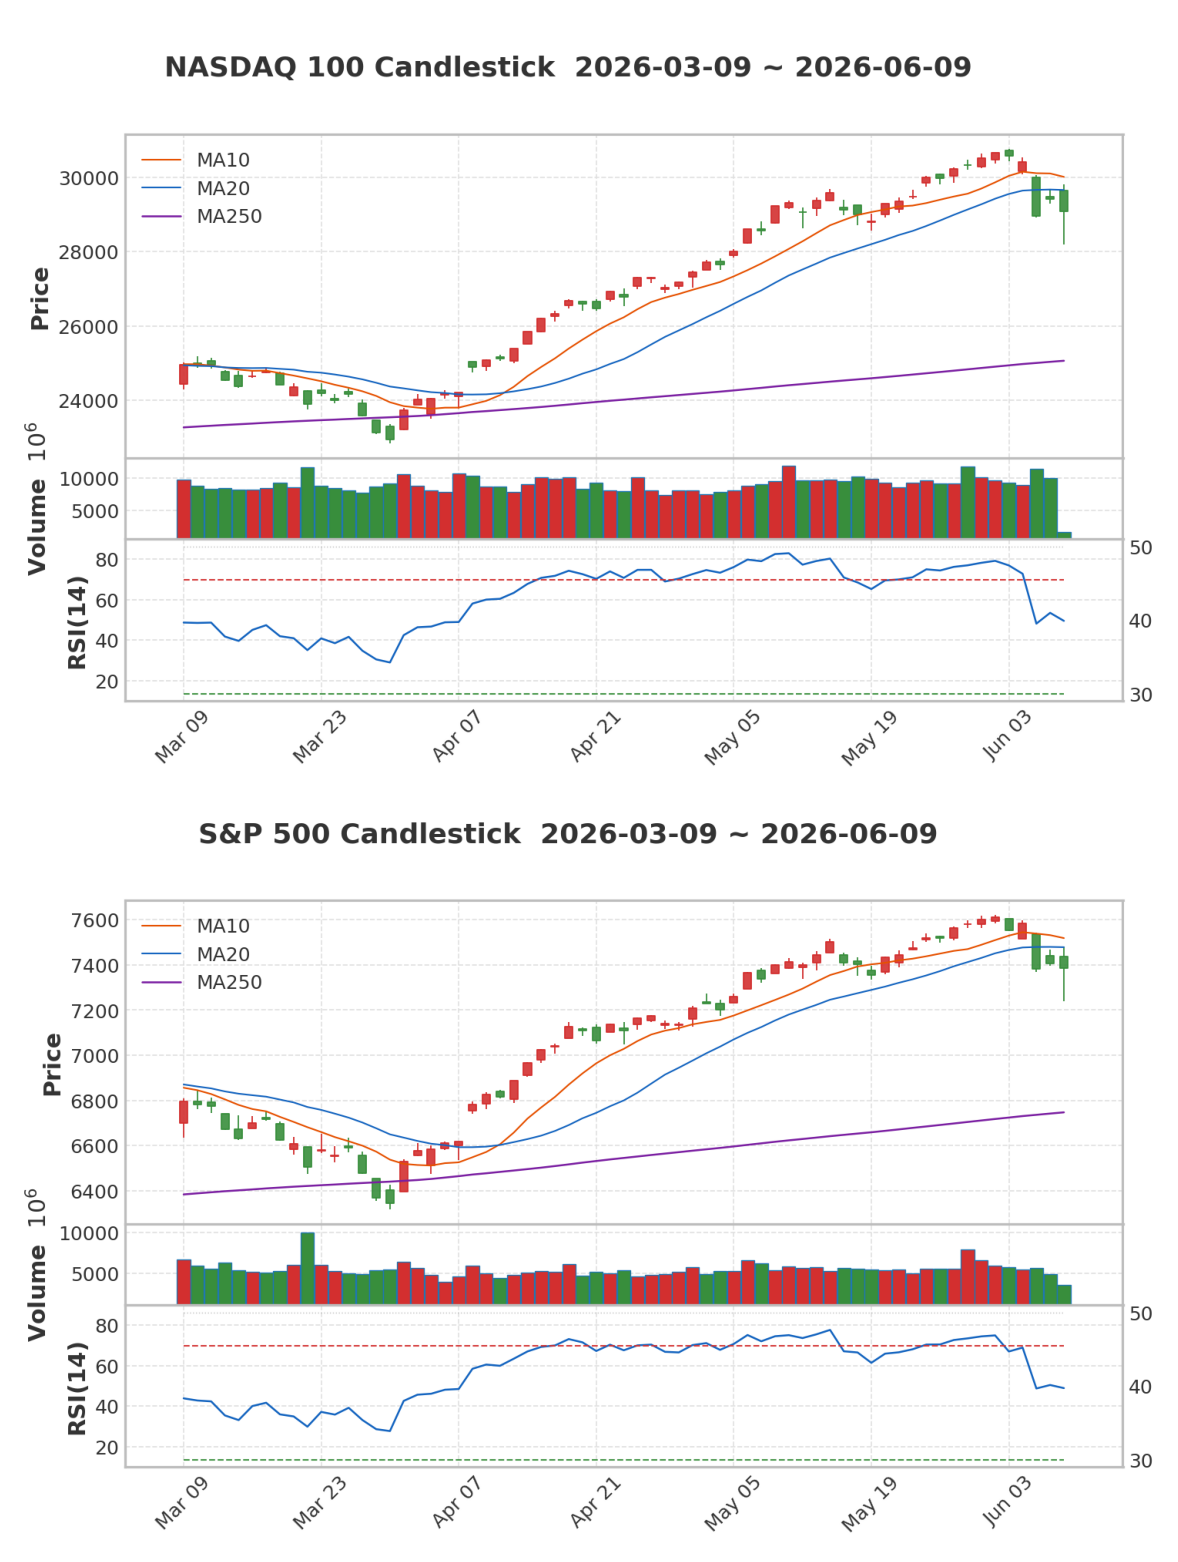
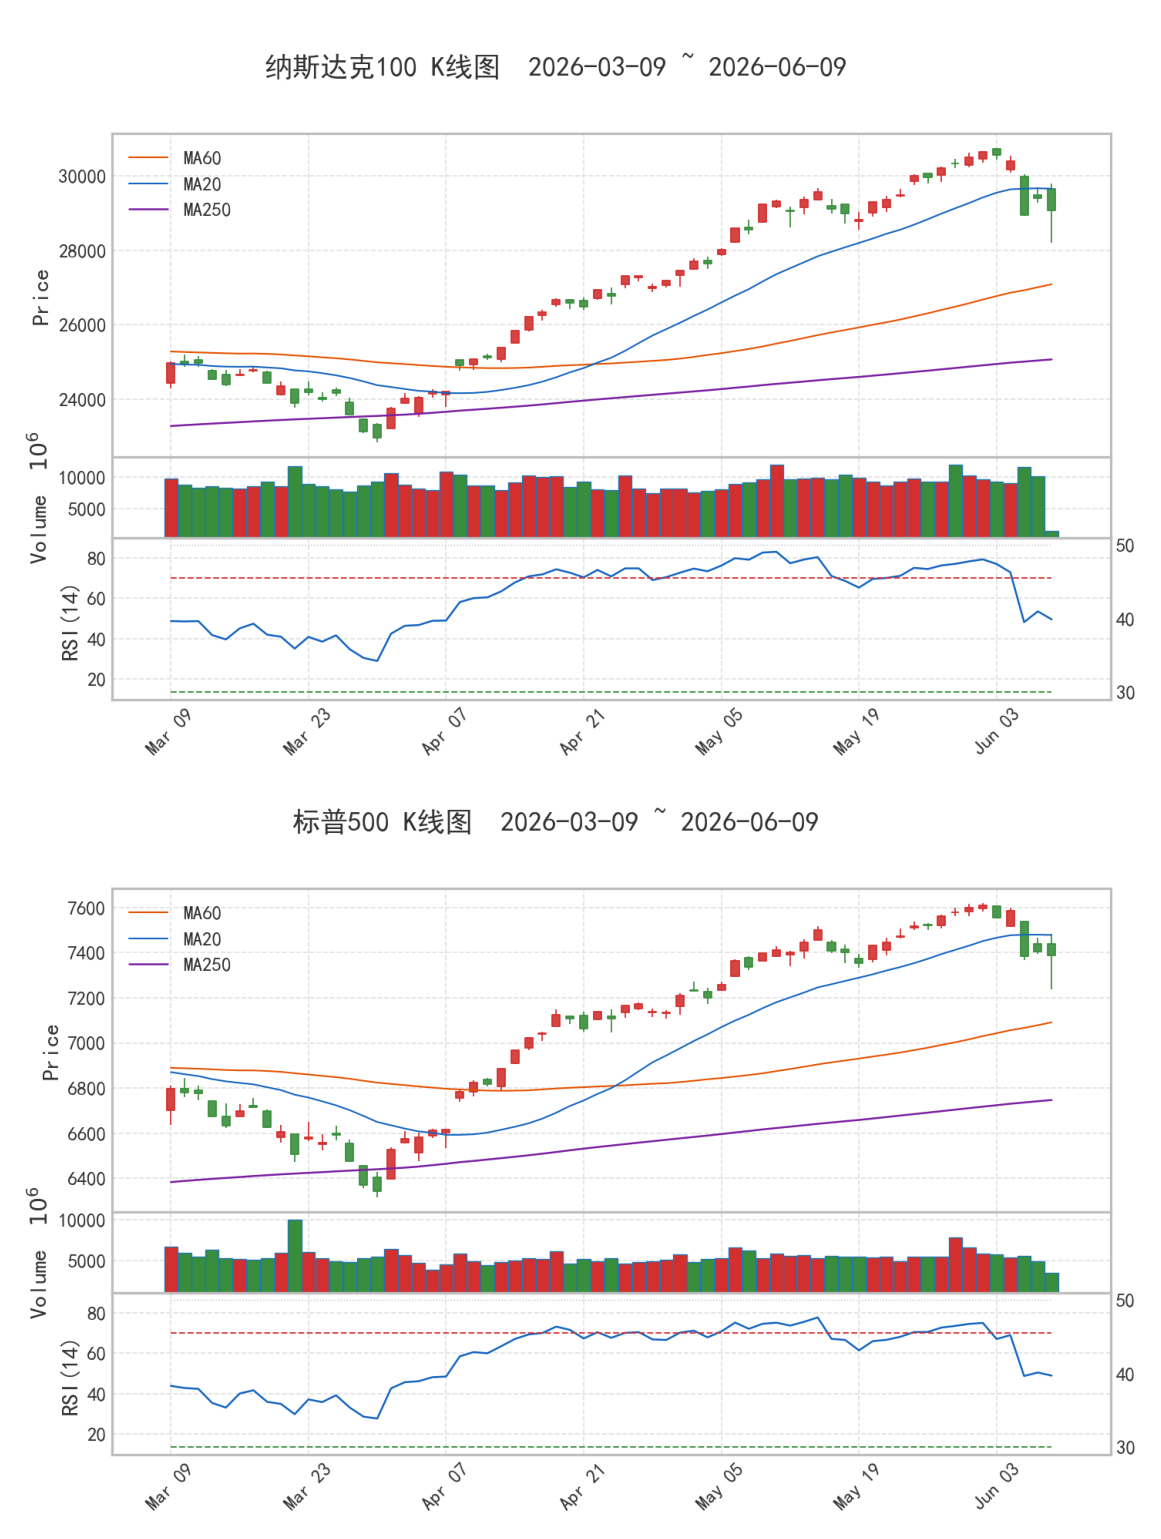
fix: 图表均线调整为MA20/60/250(v2.5.1)。将K线图中的MA10替换为MA60，配合MA20与MA250形成20/60/250三均线体系，更贴合中长线趋势观察。- backend/chart_generator.py: 均线计算、绘图标签、文档注释同步更新 - charts/kline_chart.png: 重新生成K线图

diff --git a/backend/chart_generator.py b/backend/chart_generator.py
@@ -1,7 +1,7 @@
 """
 chart_generator.py - K线图生成器
 从本地 data/ohlc_data.json 读取OHLC数据，生成纳指100和标普500近3个月的K线图，
-包含MA10/MA20/250均线和RSI(14)指标，合并为一张高清图片输出到 charts/kline_chart.png。
+包含MA20/60/250均线和RSI(14)指标，合并为一张高清图片输出到 charts/kline_chart.png。
 """
 
 import json
@@ -75,7 +75,7 @@ def calculate_rsi(series, period=14):
 def generate_single_chart(df, name_cn, months=3):
     """生成单个指数的K线图+MA+RSI，返回(figure, axes)"""
     # 计算均线
-    df['MA10'] = df['close'].rolling(window=10).mean()
+    df['MA60'] = df['close'].rolling(window=60).mean()
     df['MA20'] = df['close'].rolling(window=20).mean()
     df['MA250'] = df['close'].rolling(window=250).mean()
 
@@ -96,7 +96,7 @@ def generate_single_chart(df, name_cn, months=3):
 
     # 构建附加均线（浅色背景配色）
     apds = [
-        mpf.make_addplot(df_display['MA10'], color='#E65100', width=1.0, label='MA10'),   # 深橙色
+        mpf.make_addplot(df_display['MA60'], color='#E65100', width=1.0, label='MA60'),   # 深橙色
         mpf.make_addplot(df_display['MA20'], color='#1565C0', width=1.0, label='MA20'),   # 深蓝色
         mpf.make_addplot(df_display['MA250'], color='#7B1FA2', width=1.2, label='MA250'), # 深紫色
         mpf.make_addplot(df_display['RSI'], panel=2, color='#1565C0', width=1.2,